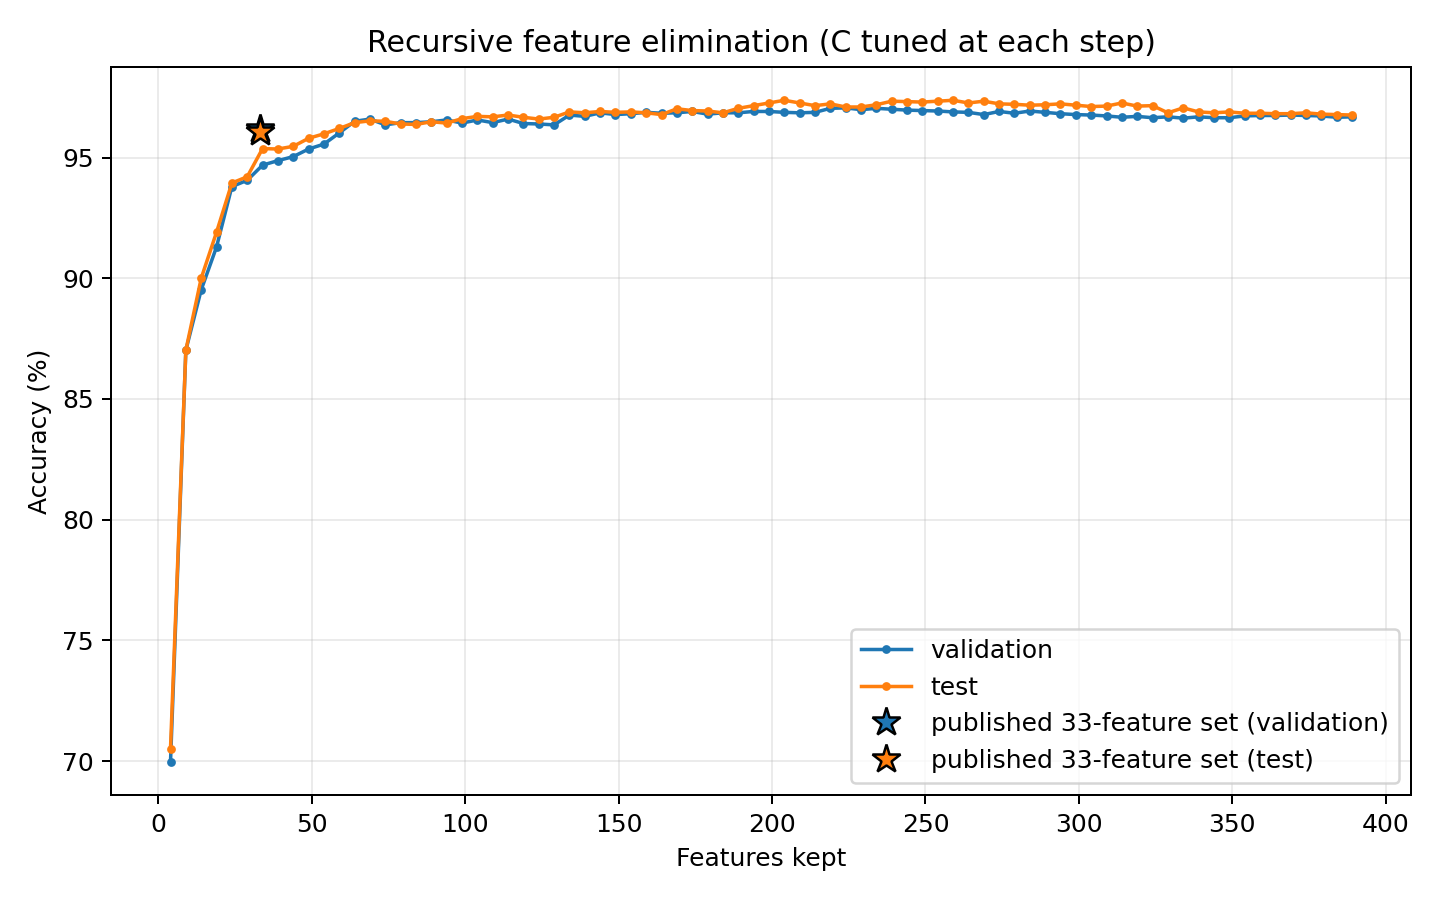
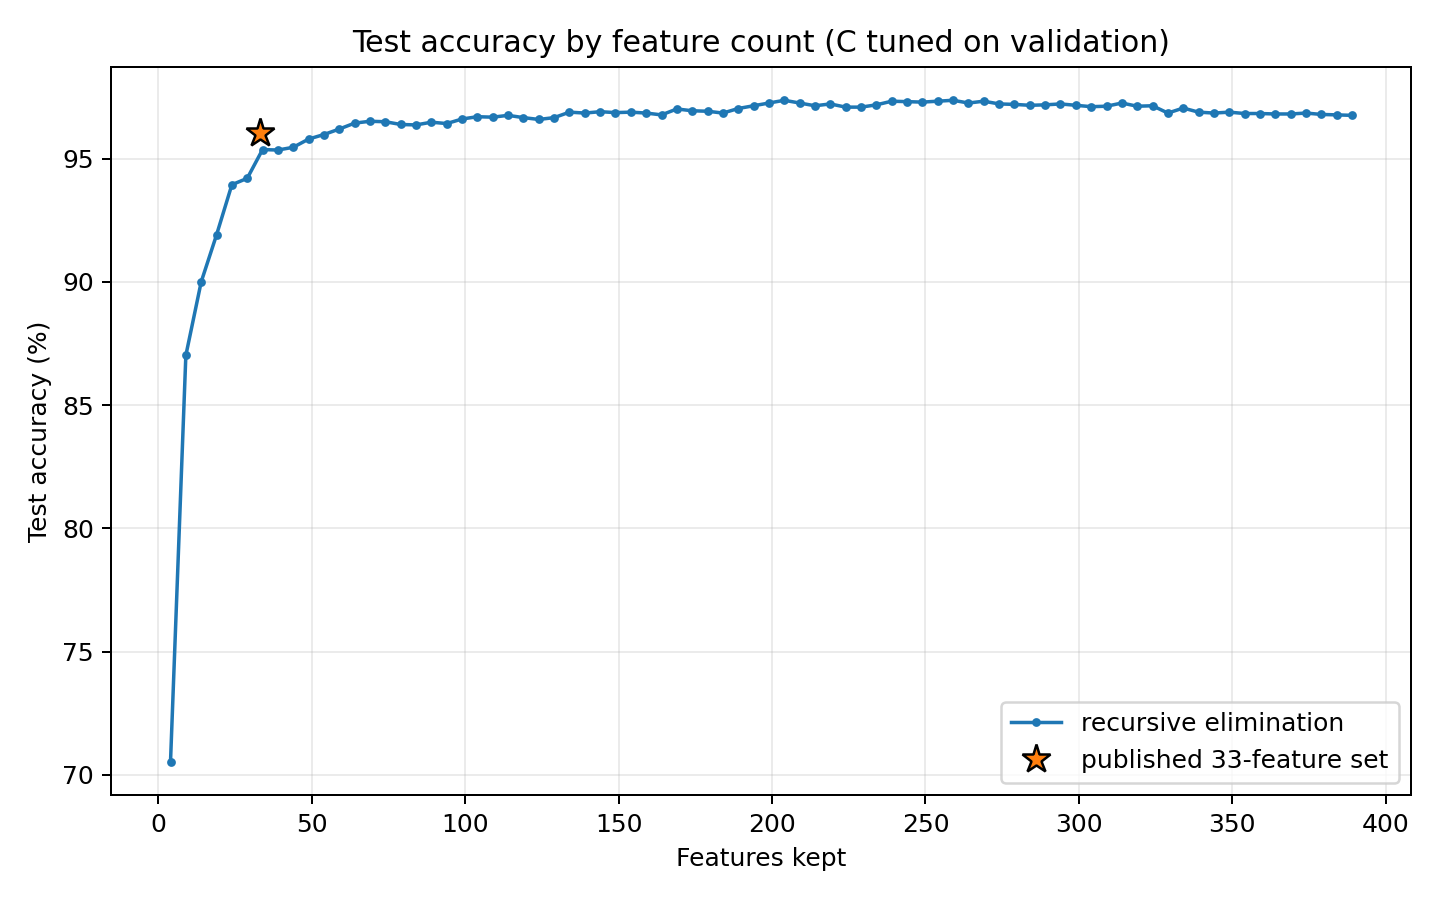
update feature plot

diff --git a/experiments/feature_importance/run.py b/experiments/feature_importance/run.py
@@ -508,31 +508,13 @@ def plot_scores(path: Path, rows: list[dict], frontier33: dict | None = None) ->
     figure, axis = plt.subplots(figsize=(8, 5))
     axis.plot(
         counts,
-        [100 * row['validation_accuracy'] for row in ordered],
-        marker='o',
-        markersize=2.5,
-        linewidth=1.4,
-        label='validation',
-    )
-    axis.plot(
-        counts,
         [100 * row['test_accuracy'] for row in ordered],
         marker='o',
         markersize=2.5,
         linewidth=1.4,
-        label='test',
+        label='recursive elimination',
     )
     if frontier33 is not None:
-        axis.plot(
-            frontier33['features_kept'],
-            100 * frontier33['validation_accuracy'],
-            marker='*',
-            markeredgecolor='black',
-            markersize=12,
-            linestyle='none',
-            color='tab:blue',
-            label='published 33-feature set (validation)',
-        )
         axis.plot(
             frontier33['features_kept'],
             100 * frontier33['test_accuracy'],
@@ -541,12 +523,12 @@ def plot_scores(path: Path, rows: list[dict], frontier33: dict | None = None) ->
             markersize=12,
             linestyle='none',
             color='tab:orange',
-            label='published 33-feature set (test)',
+            label='published 33-feature set',
         )
     axis.set(
         xlabel='Features kept',
-        ylabel='Accuracy (%)',
-        title='Recursive feature elimination (C tuned at each step)',
+        ylabel='Test accuracy (%)',
+        title='Test accuracy by feature count (C tuned on validation)',
     )
     axis.grid(alpha=0.25)
     axis.legend()

diff --git a/experiments/feature_importance/README.md b/experiments/feature_importance/README.md
@@ -35,7 +35,7 @@ The completed reference run is checked in under [`results/`](results/), includin
 | `frontier33.csv` | Separately tuned train, validation, and test score for the exact published 33-feature set |
 | `frontier33_c_sweep.csv` | Validation sweep used to tune the published 33-feature set |
 | `frontier33_features.csv` | Mapping from the published feature order into the 389-column pool |
-| `score_by_features.png` | Requested regularized logistic-regression accuracy curve |
+| `score_by_features.png` | Test accuracy by retained-feature count with the exact 33-feature set starred |
 | `top_feature_importances.png` | The 30 strongest full-model coefficient norms |
 | `summary.json` | Regularization protocol and full, best-validation, and final curve points |
 | `provenance.json` | Feature schema, source hashes, split hashes, package versions, and protocol settings |

diff --git a/experiments/feature_importance/results/README.md b/experiments/feature_importance/results/README.md
@@ -17,6 +17,6 @@ The five strongest full-model standardized coefficient norms are `corn2frac_ndvi
 
 These are conditional coefficient importances under correlated inputs. The test curve is reported for the prespecified elimination path but was not used to select `C`, feature removals, or the reported validation points.
 
-![Regularized logistic-regression score by retained feature count](score_by_features.png)
+![Test accuracy by retained feature count with the exact 33-feature set starred](score_by_features.png)
 
 ![Top 30 full-pool feature importances](top_feature_importances.png)
